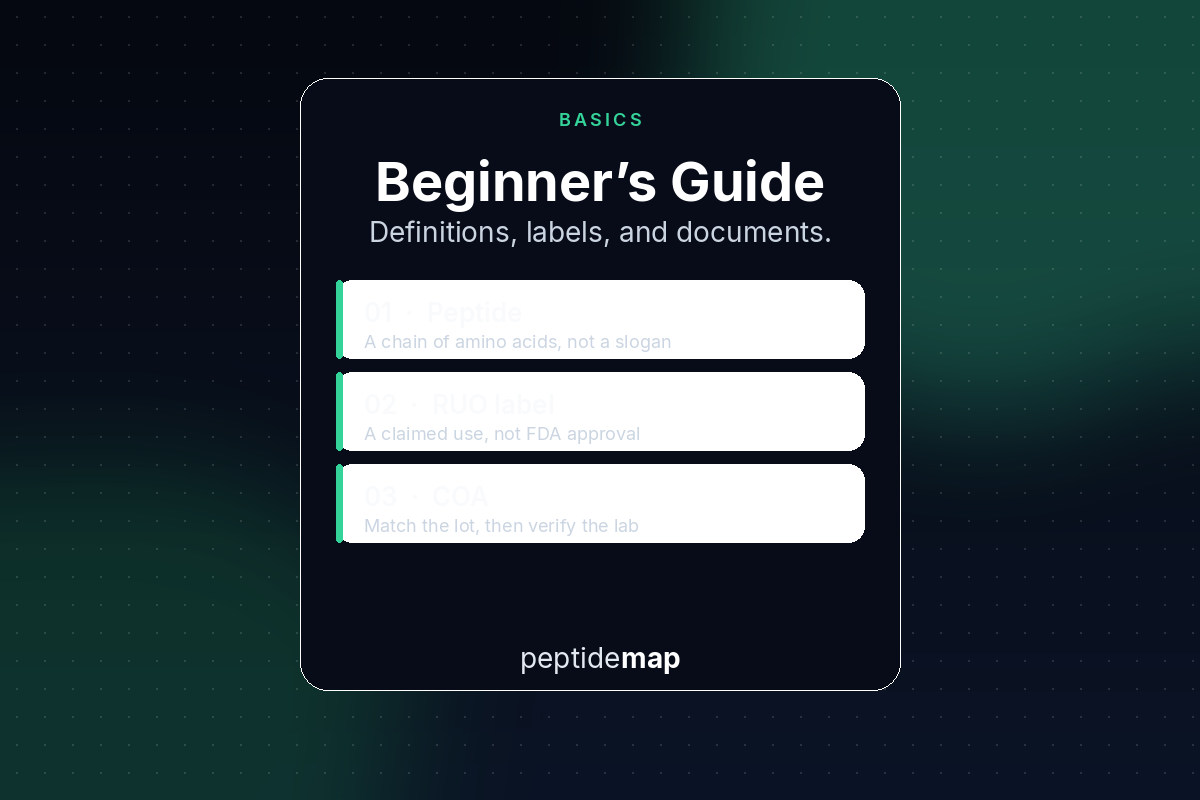
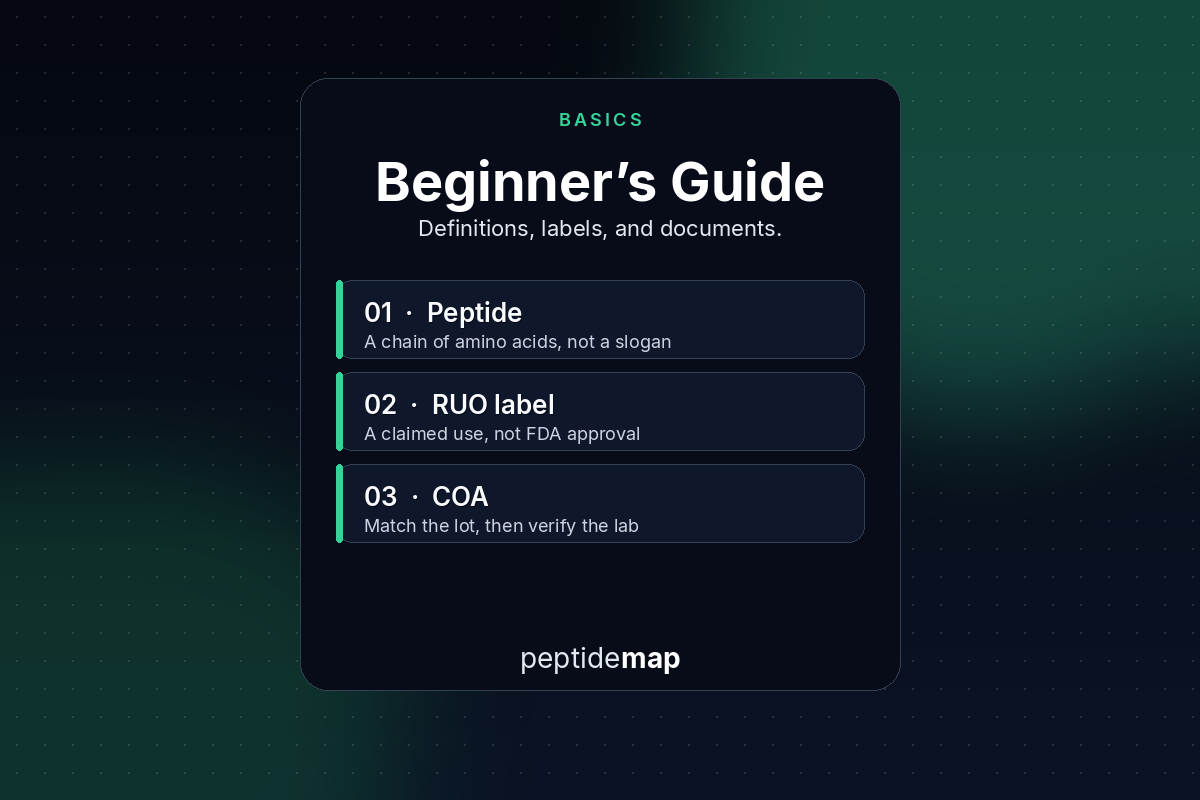
Fix cover contrast, FDA subtitle fit, and guide list order.
Row titles sit on dark chips instead of white, the FDA subtitle stays inside its panel, and /guides breaks date ties by id.

Changed region(s): [[0.2775, 0.3438, 0.74, 0.6875], [0.3083, 0.2812, 0.7092, 0.3125]]

diff --git a/resources/js/components/BlogPostCard.vue b/resources/js/components/BlogPostCard.vue
@@ -3,9 +3,10 @@
     class="bg-white border border-gray-200 rounded-lg overflow-hidden flex flex-col transition-shadow duration-300 h-full cursor-pointer"
     @click="handleClick"
   >
-    <div class="w-full aspect-[325/404] overflow-hidden bg-gray-100 rounded-t-lg">
+    <div class="w-full aspect-[325/404] overflow-hidden bg-[#0B1424] rounded-t-lg">
       <img
-        :src="image && !hasError ? image : placeholder"
+        v-if="image && !hasError"
+        :src="image"
         :alt="title"
         class="w-full h-full object-cover object-center block"
         loading="lazy"
@@ -50,7 +51,6 @@ const props = defineProps({
 })
 
 const hasError = ref(false)
-const placeholder = '/images/blogs/1.jpg'
 
 const handleClick = () => {
   router.visit(props.to)

diff --git a/resources/content/educational/images/generate_covers.py b/resources/content/educational/images/generate_covers.py
@@ -37,14 +37,31 @@ def text_width(draw, text, face) -> float:
     return box[2] - box[0]
 
 
-def fit_font(draw, text, weight, max_size, max_width):
+def fit_font(draw, text, weight, max_size, max_width, min_size=16):
     size = max_size
-    while size > 28:
+    while size > min_size:
         face = font(weight, size)
         if text_width(draw, text, face) <= max_width:
             return face
-        size -= 2
-    return font(weight, 28)
+        size -= 1
+    return font(weight, min_size)
+
+
+def wrap_text(draw, text, face, max_width):
+    words = text.split()
+    lines = []
+    current = ""
+    for word in words:
+        trial = word if not current else f"{current} {word}"
+        if text_width(draw, trial, face) <= max_width:
+            current = trial
+        else:
+            if current:
+                lines.append(current)
+            current = word
+    if current:
+        lines.append(current)
+    return lines or [""]
 
 
 def tracked(draw, text, y, face, fill, tracking=2.4):
@@ -96,33 +113,44 @@ def wordmark(draw, y):
 
 
 def row(draw, box, label, detail, accent):
-    rounded_rect(draw, box, 16, (255, 255, 255, 16), (255, 255, 255, 36), 1)
+    # Opaque dark chips. A translucent white fill is painted as solid white by
+    # PIL and leaves the light row titles unreadable.
+    rounded_rect(draw, box, 16, (15, 23, 42, 255), (51, 65, 85, 255), 1)
     draw.rounded_rectangle(
         [box[0], box[1], box[0] + 6, box[3]],
         radius=3,
         fill=accent + (255,),
     )
-    label_font = font("semibold", 26)
-    detail_font = font("regular", 18)
-    draw.text((box[0] + 28, box[1] + 16), label, font=label_font, fill=(248, 250, 252, 255))
-    draw.text((box[0] + 28, box[1] + 50), detail, font=detail_font, fill=(203, 213, 225, 230))
+    x = box[0] + 28
+    max_w = box[2] - x - 18
+    label_font = fit_font(draw, label, "semibold", 26, max_w, min_size=18)
+    detail_font = fit_font(draw, detail, "regular", 18, max_w, min_size=14)
+    draw.text((x + 1, box[1] + 17), label, font=label_font, fill=(2, 6, 23, 255))
+    draw.text((x, box[1] + 16), label, font=label_font, fill=(248, 250, 252, 255))
+    draw.text((x, box[1] + 50), detail, font=detail_font, fill=(203, 213, 225, 255))
 
 
 def cover(filename, eyebrow, title, subtitle, accent, rows):
     img = canvas(accent)
     draw = ImageDraw.Draw(img)
     panel = [300, 78, 900, 690]
-    rounded_rect(draw, panel, 28, (8, 12, 24, 168), (255, 255, 255, 28), 1)
+    rounded_rect(draw, panel, 28, (8, 12, 24, 255), (51, 65, 85, 255), 1)
 
     tracked(draw, eyebrow, 108, font("semibold", 18), accent + (255,), tracking=3.2)
 
     title_font = fit_font(draw, title, "bold", 54, 520)
     title_w = text_width(draw, title, title_font)
+    draw.text(((W - title_w) / 2 + 1, 149), title, font=title_font, fill=(2, 6, 23, 255))
     draw.text(((W - title_w) / 2, 148), title, font=title_font, fill=(255, 255, 255, 255))
 
-    sub_font = fit_font(draw, subtitle, "regular", 22, 520)
-    sub_w = text_width(draw, subtitle, sub_font)
-    draw.text(((W - sub_w) / 2, 214), subtitle, font=sub_font, fill=(203, 213, 225, 235))
+    # Keep subtitles inside the panel with padding. Long lines wrap.
+    subtitle_max = 480
+    sub_font = fit_font(draw, subtitle, "regular", 22, subtitle_max, min_size=16)
+    lines = wrap_text(draw, subtitle, sub_font, subtitle_max)
+    for index, line in enumerate(lines):
+        line_w = text_width(draw, line, sub_font)
+        y = 214 + index * 28
+        draw.text(((W - line_w) / 2, y), line, font=sub_font, fill=(226, 232, 240, 255))
 
     top = 280
     height = 78

diff --git a/tests/Feature/EducationalContentTest.php b/tests/Feature/EducationalContentTest.php
@@ -149,6 +149,8 @@ class EducationalContentTest extends TestCase
 
         $this->get('/guides')->assertOk()->assertInertia(fn ($page) => $page
             ->component('Frontend/GuideListing')
+            ->where('guides.0.slug', 'peptide-legality-fda-ruo-compounding')
+            ->where('guides.1.slug', 'beginners-guide-to-research-peptides')
             ->where('guides', function ($guides) {
                 $covers = collect($guides)->pluck('cover')->sort()->values()->all();
 

diff --git a/app/Http/Controllers/Frontend/GuidesController.php b/app/Http/Controllers/Frontend/GuidesController.php
@@ -19,6 +19,7 @@ class GuidesController extends Controller
             ->whereNotNull('content')
             ->where('content', '!=', '')
             ->orderBy('published_at', 'desc')
+            ->orderBy('id', 'desc')
             ->get()
             ->map(fn (EducationalGuide $guide) => [
                 'title' => $guide->title,
